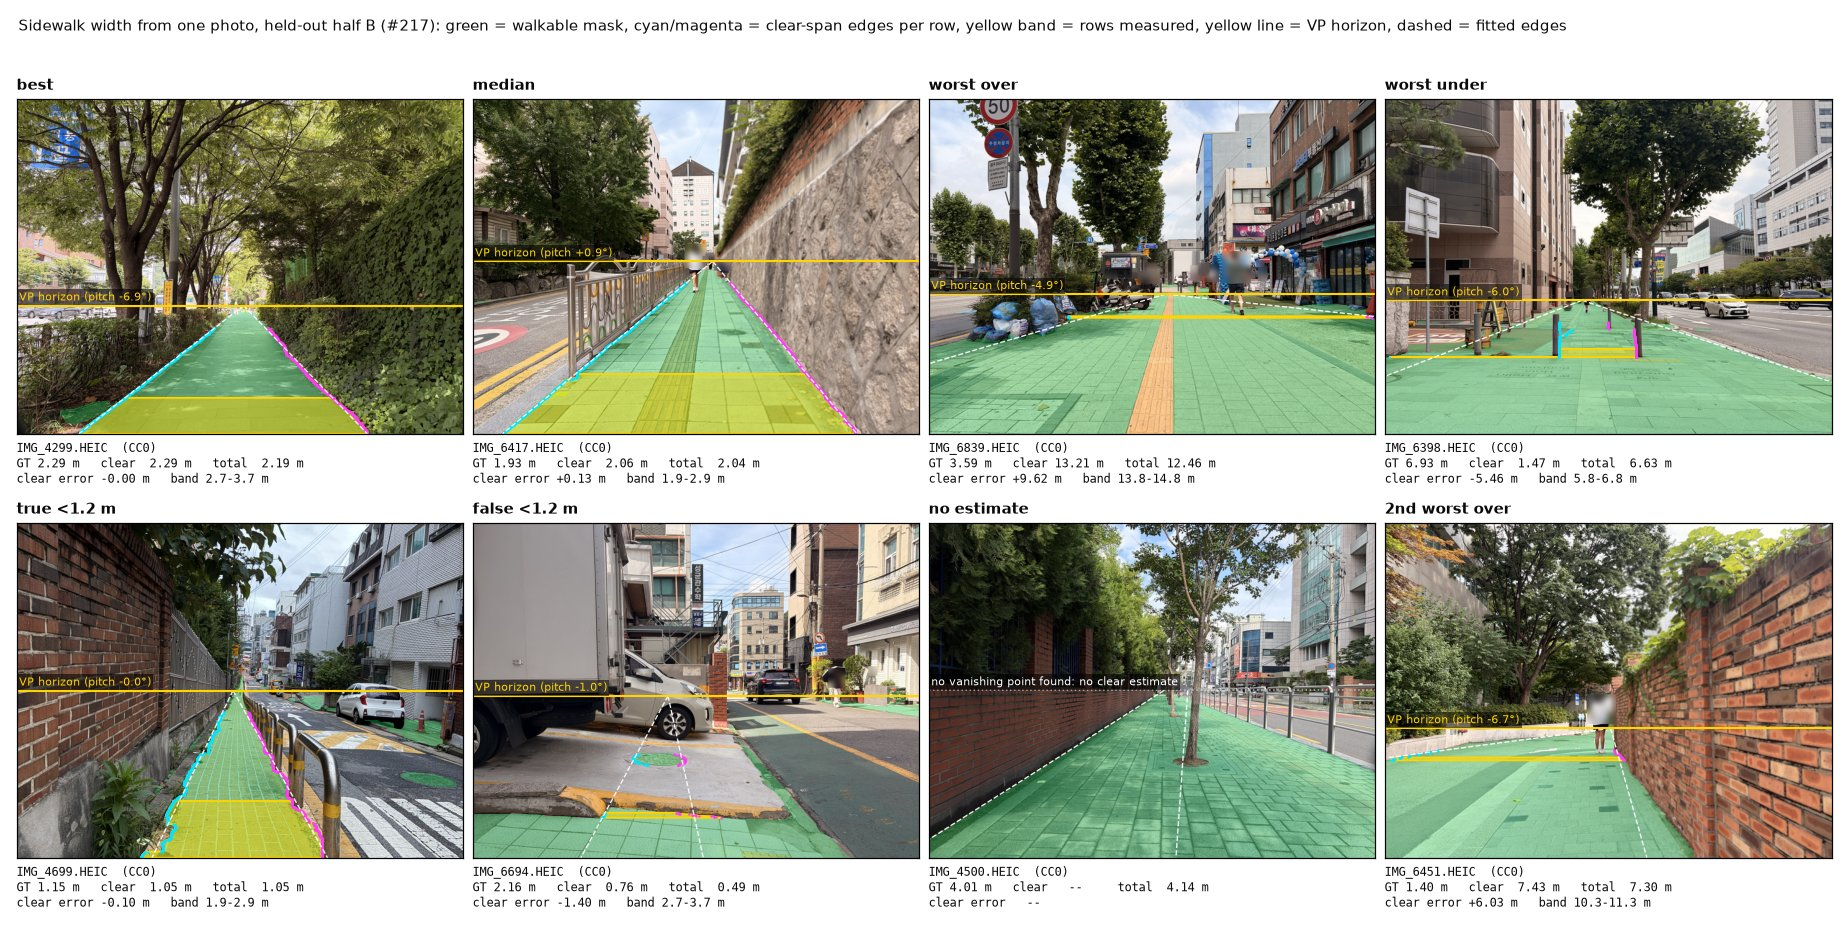
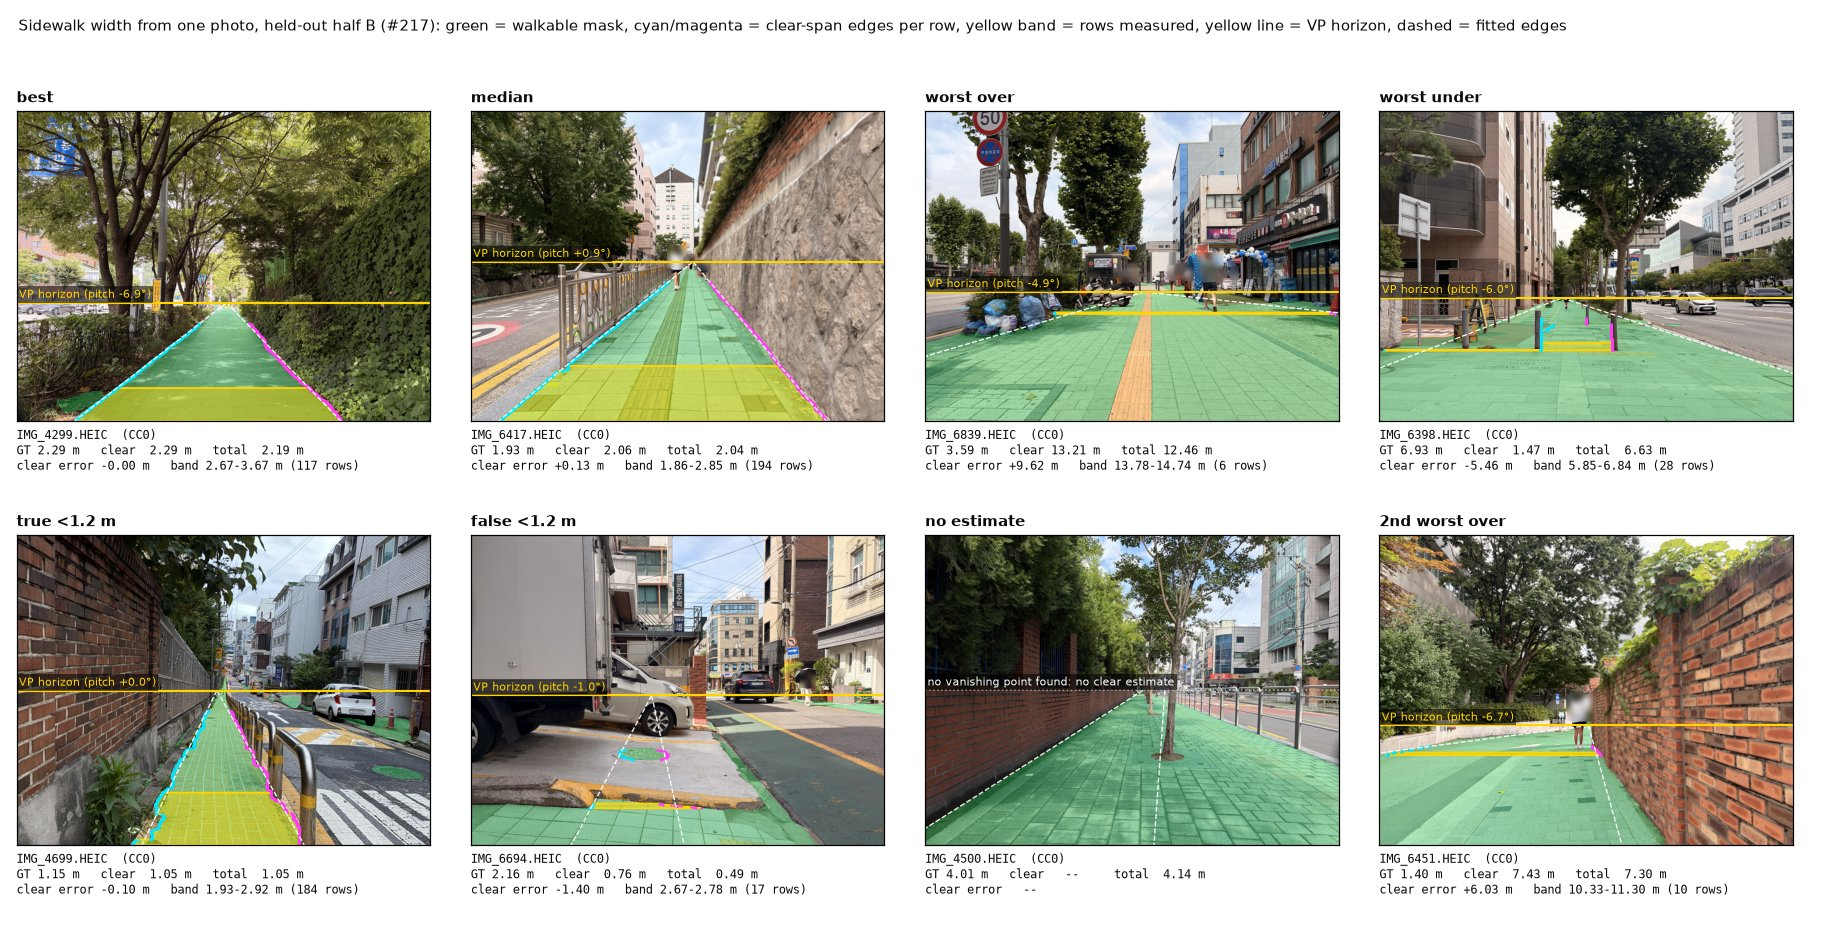
sidewalk width (#217): fixes for the d75ffc6 review (S1, S2, N1-N6)
S1: the false <1.2 m example (IMG_6694) is a 17-row strip along a curb, not
the truck and car. S2: the over-estimates come from a walkable mask far
wider than the passage, not from pixel size across the row. N1: panel
captions print the depth range actually measured and the row count. N2: a
table of the eight examples and alt text that states what each figure
shows. N3: leader lines for the four labels in the low-left cloud. N4:
overlay_geometry asserts the vp horizon. N5: zmin is inert on the good
photos. N6: load() docstring, no negative-zero pitch, and a test pinning
the eight picks. Figures re-rendered; new sha256 in the doc.

diff --git a/scripts/analysis/sidewalk_width_217_figures.py b/scripts/analysis/sidewalk_width_217_figures.py
@@ -55,7 +55,10 @@ TEXT, TEXT2 = "#0b0b0b", "#52514e"
 
 
 def load(results_path=RESULTS):
-    """(names, half, gt, clear, total) with clear/total as {filename: width or nan}."""
+    """(names, half, gt, clear, total, cfg).
+
+    clear/total are {filename: width or nan}; cfg is {"clear": config, "total": config},
+    the chosen config of each measure from ``results.json``."""
     with open(results_path, encoding="utf-8") as f:
         res = json.load(f)
     gt = sw._read_gt()
@@ -108,7 +111,13 @@ def overlay_geometry(lab, cfg):
     """Everything drawn on one photo, recomputed with the scoring code.
 
     Returns a dict: walk mask, clear left/right edges, used rows, band rows, pitch (rad or
-    None), horizon row, VP edge lines (a, b) or None, the clear width, focal length."""
+    None), horizon row, VP edge lines (a, b) or None, the clear width, focal length, and
+    ``band_z`` = (nearest, farthest depth actually measured, number of band rows).
+
+    Only the ``vp`` horizon is drawn: the chosen clear config uses it, and ``level`` /
+    ``vp_prior`` would need a different pitch here."""
+    assert cfg["horizon"] == "vp", (
+        f"overlay_geometry draws the VP horizon only; config has horizon={cfg['horizon']!r}")
     Hh, Ww = lab.shape
     cx, cy = (Ww - 1) / 2.0, (Hh - 1) / 2.0
     f = sw.focal_px(sw.F35_MM, Ww, Hh)
@@ -138,7 +147,8 @@ def overlay_geometry(lab, cfg):
     if mz.any():
         z0 = Z[mz].min()
         out["band"] = mz & (Z <= z0 + cfg["band"])
-        out["band_z"] = (float(z0), float(z0 + cfg["band"]))
+        zb = Z[out["band"]]
+        out["band_z"] = (float(zb.min()), float(zb.max()), int(out["band"].sum()))
     out["width"] = sw.band_stat(Z, Wd, cfg["zmin"], cfg["band"], cfg["stat"])
     out["horizon"] = sw.horizon_row(f, cy, pitch)
     return out
@@ -167,7 +177,7 @@ def draw_panel(ax, photo, g, title, caption):
             ax.plot(a + b * vv, vv, "--", color="white", lw=0.9, alpha=0.9)
     if g["pitch"] is not None:
         ax.axhline(g["horizon"], color="#ffd400", lw=1.4, ls="-")
-        ax.text(8, g["horizon"] - 8, f"VP horizon (pitch {math.degrees(g['pitch']):+.1f}°)",
+        ax.text(8, g["horizon"] - 8, f"VP horizon (pitch {pitch_deg(g['pitch']):+.1f}°)",
                 color="#ffd400", fontsize=7, va="bottom",
                 bbox=dict(fc=(0, 0, 0, 0.55), ec="none", pad=1.5))
     else:
@@ -181,6 +191,11 @@ def draw_panel(ax, photo, g, title, caption):
     ax.set_title(title, fontsize=10, color=TEXT, loc="left", fontweight="bold")
     ax.text(0, -0.02, caption, transform=ax.transAxes, fontsize=8, color=TEXT, va="top",
             family="monospace")
+
+
+def pitch_deg(p):
+    """Pitch in degrees rounded to 0.1, without a negative zero (-0.04 -> 0.0)."""
+    return round(math.degrees(p), 1) + 0.0
 
 
 def fmt(x):
@@ -215,7 +230,7 @@ def render(args):
                f"GT {G[n]:.2f} m   clear {fmt(C[n])}   total {fmt(T[n])}\n"
                f"clear error {'  --' if not np.isfinite(err) else f'{err:+.2f} m'}")
         if "band_z" in g:
-            cap += f"   band {g['band_z'][0]:.1f}-{g['band_z'][1]:.1f} m"
+            cap += f"   band {g['band_z'][0]:.2f}-{g['band_z'][1]:.2f} m ({g['band_z'][2]} rows)"
         draw_panel(ax, np.asarray(photo), g, label, cap)
     for ax in axes.ravel()[len(picks):]:
         ax.axis("off")
@@ -243,11 +258,20 @@ def render(args):
     a1.plot([0, lim], [0, lim], color=TEXT2, lw=1)
     a1.scatter(gb[ok], cb[ok], s=22, color=BLUE, alpha=0.75, edgecolor="white", lw=0.6,
                label=f"clear width, half B ({ok.sum()} of {len(B)} estimated)")
+    # the four picks inside the dense low-left cloud get a leader line from open space,
+    # stacked in the same order as their points so the lines do not cross
+    leader = {"best": (8.3, 5.0), "median": (8.3, 4.2), "true <1.2 m": (8.3, 3.4),
+              "false <1.2 m": (8.3, 2.6)}
     for label, n in picks:
         if np.isfinite(C[n]):
-            off = (-44, -12) if label == "median" else (6, 4)
-            a1.annotate(label, (G[n], C[n]), xytext=off, textcoords="offset points",
-                        fontsize=7.5, color=TEXT)
+            if label in leader:
+                a1.annotate(label, (G[n], C[n]), xytext=leader[label], textcoords="data",
+                            fontsize=7.5, color=TEXT, va="center",
+                            arrowprops=dict(arrowstyle="-", color=TEXT2, lw=0.6,
+                                            shrinkA=2, shrinkB=4))
+            else:
+                a1.annotate(label, (G[n], C[n]), xytext=(6, 4), textcoords="offset points",
+                            fontsize=7.5, color=TEXT)
             a1.scatter([G[n]], [C[n]], s=46, facecolor="none", edgecolor=TEXT, lw=1.1)
     a1.text(1.2, lim - 0.15, " 1.2 m", fontsize=7.5, color=TEXT2, va="top")
     a1.text(1.5, lim - 0.6, " 1.5 m", fontsize=7.5, color=TEXT2, va="top")

diff --git a/tests/test_sidewalk_width_217.py b/tests/test_sidewalk_width_217.py
@@ -243,3 +243,24 @@ def test_focal_error_barely_moves_width(width, pitch_deg):
     assert out[1.0] == pytest.approx(width, rel=0.03)
     for k in (0.9, 1.1):
         assert abs(out[k] / out[1.0] - 1) < 0.005, (k, out)
+
+
+def test_example_selection_is_pinned():
+    """The eight contact-sheet photos follow from committed files alone; a change to the
+    selection rule or to results.json that moves them should be a deliberate edit."""
+    import sidewalk_width_217_figures as F
+    names, half, G, C, _, cfg = F.load()
+    picks = F.select_examples(names, half, G, C)
+    assert picks == [
+        ("best", "IMG_4299.HEIC"), ("median", "IMG_6417.HEIC"),
+        ("worst over", "IMG_6839.HEIC"), ("worst under", "IMG_6398.HEIC"),
+        ("true <1.2 m", "IMG_4699.HEIC"), ("false <1.2 m", "IMG_6694.HEIC"),
+        ("no estimate", "IMG_4500.HEIC"), ("2nd worst over", "IMG_6451.HEIC")]
+    assert all(half[n] == "B" for _, n in picks)
+    assert cfg["clear"]["horizon"] == "vp"   # overlay_geometry draws only this horizon
+
+
+def test_pitch_label_has_no_negative_zero():
+    import sidewalk_width_217_figures as F
+    assert f"{F.pitch_deg(math.radians(-0.04)):+.1f}" == "+0.0"
+    assert f"{F.pitch_deg(math.radians(-6.9)):+.1f}" == "-6.9"

diff --git a/docs/sidewalk_width_217.md b/docs/sidewalk_width_217.md
@@ -243,20 +243,45 @@ second-largest over-estimate (`sidewalk_width_217_figures.py`, docstring). The o
 recomputed from the label maps with the scoring code, and each recomputed width is asserted
 equal to the committed per-image estimate.
 
-![Eight half-B photos with the walkable mask, clear-span edges, measurement band and VP horizon](figures/sidewalk_width_217/examples_contact_sheet.jpg)
+![Eight half-B photos with the walkable mask, clear-span edges, measurement band and VP horizon. On the three good photos the band is a wide block in the first metre of ground; on the failures it is a thin strip far out (IMG_6839, IMG_6451), a sliver along a curb (IMG_6694), or missing (IMG_4500, no vanishing point)](figures/sidewalk_width_217/examples_contact_sheet.jpg)
 
-![Estimated vs GT clear width on half B, and MAE per GT-width bin for clear and total width](figures/sidewalk_width_217/diagnostics.jpg)
+| slot | photo | GT (m) | clear (m) | total (m) | clear error (m) | rows measured: depth (m), count |
+|---|---|---:|---:|---:|---:|---|
+| best | IMG_4299 | 2.29 | 2.29 | 2.19 | −0.00 | 2.67–3.67, 117 |
+| median | IMG_6417 | 1.93 | 2.06 | 2.04 | +0.13 | 1.86–2.85, 194 |
+| worst over | IMG_6839 | 3.59 | 13.21 | 12.46 | +9.62 | 13.78–14.74, 6 |
+| worst under | IMG_6398 | 6.93 | 1.47 | 6.63 | −5.46 | 5.85–6.84, 28 |
+| true <1.2 m | IMG_4699 | 1.15 | 1.05 | 1.05 | −0.10 | 1.93–2.92, 184 |
+| false <1.2 m | IMG_6694 | 2.16 | 0.76 | 0.49 | −1.40 | 2.67–2.78, 17 |
+| no estimate | IMG_4500 | 4.01 | — | 4.14 | — | none (no vanishing point) |
+| 2nd worst over | IMG_6451 | 1.40 | 7.43 | 7.30 | +6.03 | 10.33–11.30, 10 |
+
+The table repeats the panel captions (`sidewalk_width_217_figures.py select` prints the first
+five columns; the depth range is the one drawn as the yellow band).
+`tests/test_sidewalk_width_217.py::test_example_selection_is_pinned` fixes the eight picks.
+
+![Left: estimated vs GT clear width on half B; most points sit near the diagonal below 3 m GT and spread upward above it. Right: mean absolute error per GT-width bin; clear width MAE is 0.37 m below 1.5 m and 0.36 m at 1.5–3 m, then 1.16 m at 3–5 m and 1.59 m at 5 m and over (total width: 0.39, 0.36, 1.11, 0.96 m)](figures/sidewalk_width_217/diagnostics.jpg)
 
 What the examples show. The two worst over-estimates (IMG_6839, +9.6 m; IMG_6451, +6.0 m)
 fail the same way: the walkable span touches the frame edge in every near row, so those rows
-are dropped, and the first usable rows lie 10–14 m out, just below the horizon, where one
-pixel spans decimetres and the measured span reaches past the sidewalk. The worst
+are dropped, and the first usable rows lie 10–14 m out, just below the horizon, where the
+walkable mask runs far wider than the surveyed passage. In IMG_6839 it runs 975 px from planting
+(Vegetation) on the left to the shopfronts (Building) on the right; in IMG_6451 it takes in a
+Pedestrian Area beside the sidewalk (232 px of Pedestrian Area plus 508 px of Sidewalk in the
+middle band row). Pixel size across the row is not the cause: there a pixel is 1.4 cm (IMG_6839)
+and 1.0 cm (IMG_6451) wide. Depth is coarse, though: each image row there is 0.19 m and 0.11 m
+deep, so a small pitch error moves the depth, and the width with it, a lot. The worst
 under-estimate (IMG_6398, −5.5 m) is a clear span cut short by a bollard and pole in the
-middle of a 6.9 m sidewalk. The false <1.2 m flag (IMG_6694) is a sidewalk mostly
-hidden by a parked truck and car. The no-estimate photo (IMG_4500) has a row of street trees
+middle of a 6.9 m sidewalk. The false <1.2 m flag (IMG_6694) is not the truck and
+car: the tiled sidewalk fills the frame in every near row, so those rows are dropped, and the
+only rows left (17 of them, 2.67–2.78 m out) are a narrow strip along the yellow curb at the
+foot of a raised driveway apron, which Vistas bounds with Curb on both sides. Per-row widths
+there are 0.61–0.98 m; the truck and car stand on the apron above it. The no-estimate photo (IMG_4500) has a row of street trees
 down the middle of the sidewalk, and the right-edge fit follows the trees, so no vanishing
-point is found. The band starts at the first valid row at or beyond 1.5 m, so on the good
-photos it sits at 1.9–2.9 m or 2.7–3.7 m rather than exactly 1.5–2.5 m.
+point is found. The band starts at the first valid row at or beyond 1.5 m, but on the good
+photos the bottom image row already projects to 1.86–2.67 m (1 m camera, 25 mm equivalent), so
+no nearer row exists and `zmin = 1.5` does nothing there: the band is simply the first metre of
+ground in frame (1.86–2.85, 1.93–2.92 and 2.67–3.67 m).
 
 ## Caveats (they apply to every number above)
 
@@ -360,9 +385,9 @@ python scripts/analysis/sidewalk_width_217_figures.py render --images $SEOUL/ima
 ```
 
 The committed figures (matplotlib 3.11.1, Pillow 12.3.0) have sha256
[2 lines of base64/hex data omitted]
 (`examples_contact_sheet.jpg`) and
[2 lines of base64/hex data omitted]
 matplotlib or JPEG-encoder versions will not match byte-for-byte, and the widths drawn are
 asserted against `results.json` either way.
 
